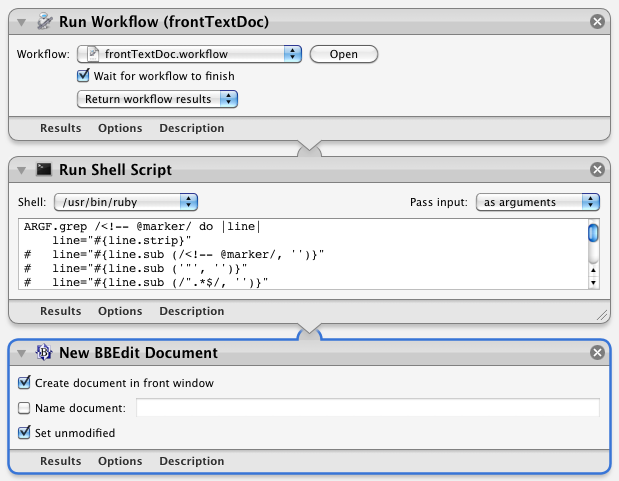
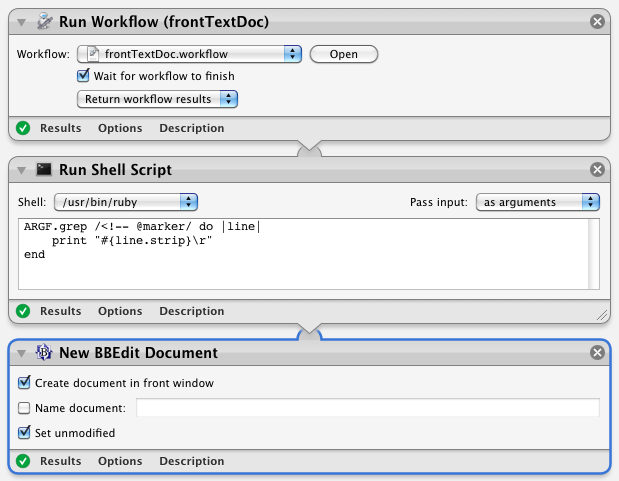
improve Xcode.install, goMarker.workflow, Xcode.r
Xcode.install: now creates derived directory folder and excludes *.install files; change expected directory and drop Project parameter
goMarker.workflow: refactor for future expansion to other file types
Xcode.r: clean up _FileNewStandards_
TechnicalDocs: BBEdit:Validate All now passes; add a header level to section Active of history documents

diff --git a/Cdoc/Support_hist.html b/Cdoc/Support_hist.html
@@ -53,36 +53,41 @@
 				</ul></li>
 				<li>Xcode.install: install workflows at ~/Library/Scripts/Xcode</li>
 			</ul></li>
-			<!-- @marker "3 === Current" --><li class='tlhead' id='hmark_Current'>&lt;-- Current</li>
-			<li>history documents: add a header level to section Active to provide for splitting larger topics into smaller sections</li>
-			<li>TechnicalDocs: corrections to Support_svn (this project's predecessor) docs to allow BBEdit:Validate All to pass</li>
-			<li>[_ccdev_install] CCDev.install<ul>
-				<li>Xcode.install processes files by folder</li>
-				<li>refactor reusable functionality from Xcode.install into separate script ccInstall<ul>
-					<li>new files ccInstall.func (extension dropped by installer), CCDev.install, CCDev/_Tests/TestCCDev.ksh: extract/refactor from Xcode.install</li>
-					<li>ccInstall --params<ul>
-						<li class='impl'>$*: string containing all arguments</li>
-						<li class='impl'>file getobj: (use technique to read parameters in a separate function)	
-							#! /bin/ksh
-							
-							function getobj {
-							typeset -n obj=$1
-							obj=( first="a" second="b" third="${2}")
-							}
-							
-							caller:
-							#! /bin/ksh
-						
-							getobj myobj "Hello"
-							print $myobj
-							#( first=a second=b third=Hello )</li>
-					</ul></li>
-					<li>ccInstall --findFiles: verify parameters, generates sources_&lt;target&gt; and tests_&lt;target&gt; at $CCDev/build/&lt;Project&gt;</li>
-					<li>CCDev.install (new): copies ~/Dev/Support/CCDev/Scripts/ccInstall.func to ~/CCDev/func/ccInstall</li>
-				</ul></li>
+			<li>goMarker.workflow: remove code specific to HTML markers in preparation for extending to other file types</li>
+			<li>Xcode.install: correct problems with creating derived directory folder and excluding *.install files; change expected directory and drop Project parameter; continued refactoring</li>
+			<li>Xcode.r: clean up _FileNewStandards_</li>
+			<li>TechnicalDocs<ul>
+				<li>history documents: add a header level to section Active to provide for splitting larger topics into smaller sections</li>
+				<li>corrections to Support_svn (this project's predecessor) docs to allow BBEdit:Validate All to pass</li>
 			</ul></li>
-			<li>add build target Cdoc [<a href="#_cdocdev">_cdocdev</a>]</li>
 		</ul></li>
+		<!-- @marker "3 === Current" --><li class='tlhead' id='hmark_Current'>&lt;-- Current</li>
+		<li>[_ccdev_install] CCDev.install<ul>
+			<li>Xcode.install processes files by folder</li>
+			<li>refactor reusable functionality from Xcode.install into separate script ccInstall<ul>
+				<li>new files ccInstall.func (extension dropped by installer), CCDev.install, CCDev/_Tests/TestCCDev.ksh: extract/refactor from Xcode.install</li>
+				<li>ccInstall --params<ul>
+					<li class='impl'>$*: string containing all arguments</li>
+					<li class='impl'>file getobj: (use technique to read parameters in a separate function)	
+						#! /bin/ksh
+						
+						function getobj {
+						typeset -n obj=$1
+						obj=( first="a" second="b" third="${2}")
+						}
+						
+						caller:
+						#! /bin/ksh
+					
+						getobj myobj "Hello"
+						print $myobj
+						#( first=a second=b third=Hello )</li>
+				</ul></li>
+				<li>ccInstall --findFiles: verify parameters, generates sources_&lt;target&gt; and tests_&lt;target&gt; at $CCDev/build/&lt;Project&gt;</li>
+				<li>CCDev.install (new): copies ~/Dev/Support/CCDev/Scripts/ccInstall.func to ~/CCDev/func/ccInstall</li>
+			</ul></li>
+		</ul></li>
+		<li>add build target Cdoc [<a href="#_cdocdev">_cdocdev</a>]</li>
 		<li>Support import: plan import of remaining Support features [<a href="#_devimport">_devimport</a>]</li>
 		<li>plan import of remaining existing projects [<a href="#_devimport">_devimport</a>]</li>
 	</ul>
